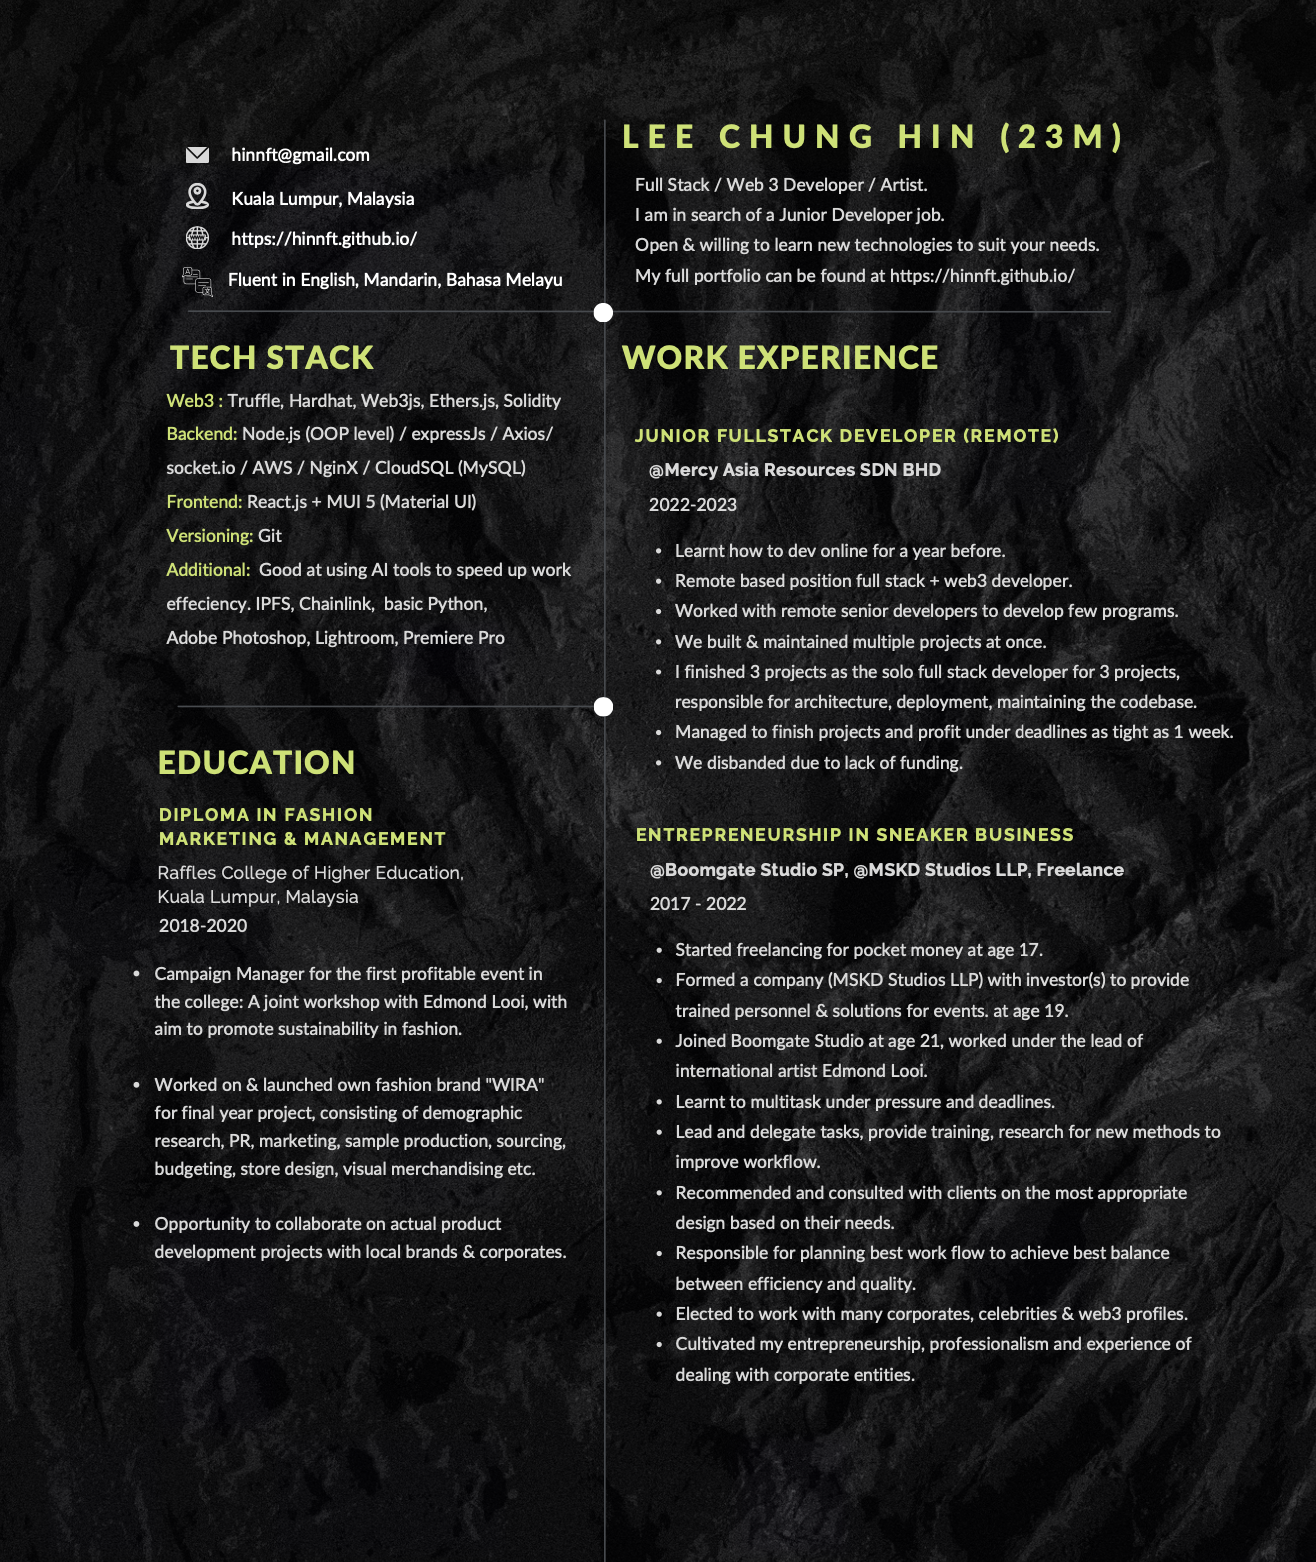
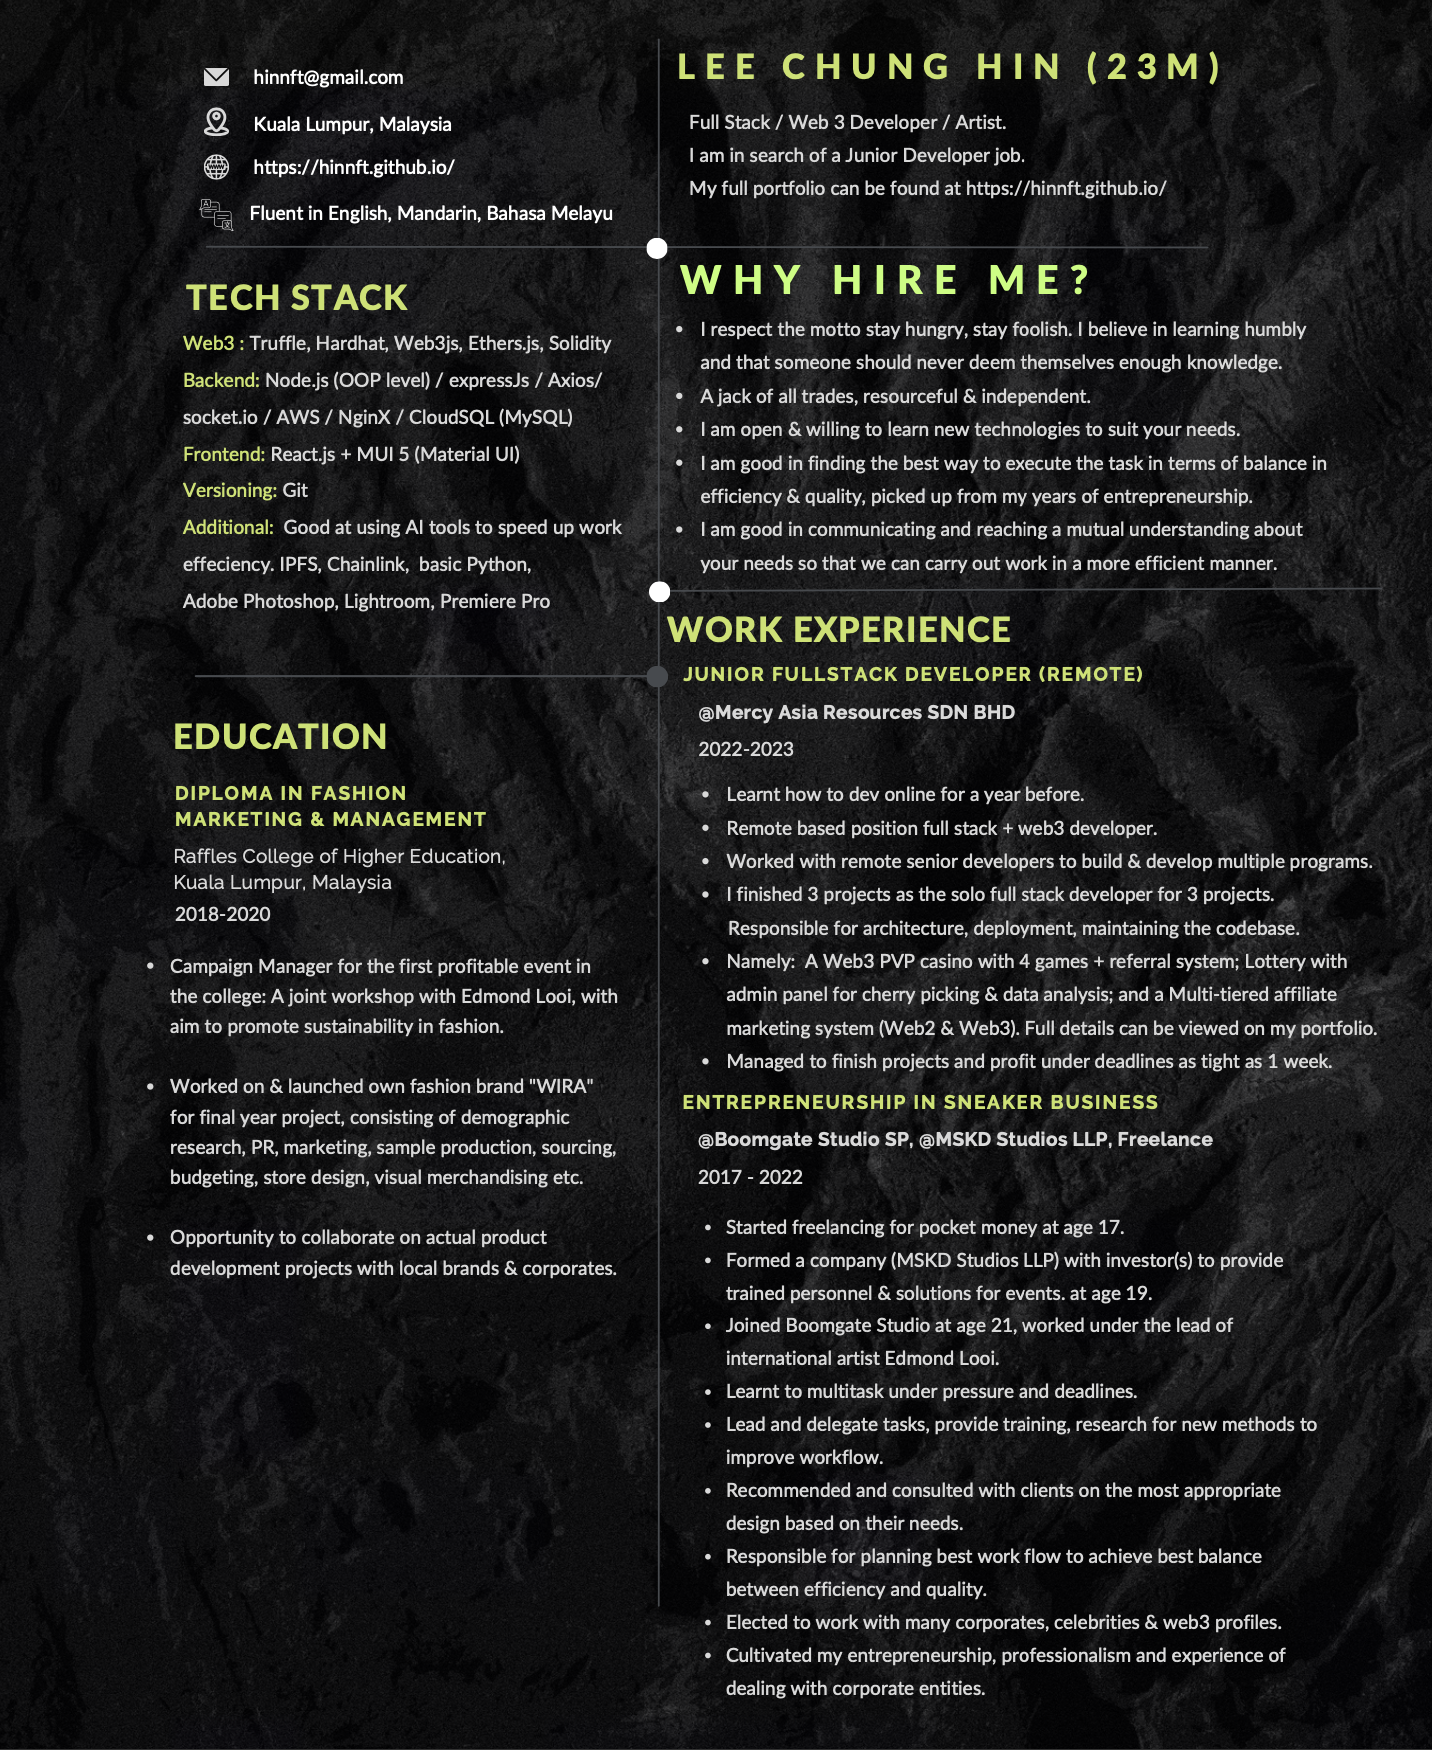
m

diff --git a/index.html b/index.html
@@ -103,38 +103,42 @@
           </p>
 
           <p>
-            Before my career as a fullstack developer, I had a career in art & crafts. I have juggled with entrepenuership, while at school at an age of 17-22, and even had the opportunity to start a company with an investor. I've also had opportunities to work with international artists, celebs and several well known Web3 names, including HAUS, Glider, Antoni Tudisco to name a few. During the NFT/Cryptocurrency boom in 2021, I learnt about decentralization & got fascinated by blockchain technology & the spirit of Web3.
+            Before my career as a fullstack developer, I had a career in art & crafts. I have juggled with entrepenuership at young age, and had the opportunity to start a company with an investor. I've also had opportunities to work with international artists, celebs and several well known Web3 names, including HAUS, Glider, Antoni Tudisco to name a few. During the NFT/Cryptocurrency boom in 2021, I learnt about decentralization & got fascinated by blockchain technology & the spirit of Web3.
           </p>
           <p>
-            After much research, I got intrigued to be involved, thus decided to pursue a new career as a fullstack & web 3 developer.
+            After much research, I was intrigued to pursue a new career as a fullstack & web 3 developer.
           </p>
           <p>
            Initially, I wanted to develop decentralized blockchain applications(dAPPs) to upgrade my own NFT collection on OpenSea. As I got more invested in programming, I did my own studies online during my free time after work for almost year. 
           </p>
           <p>
-            I learnt several programming languages including JavaScript, Solidity, HTML, CSS, Python, SQL. I also gained experience working with popular frameworks such as React, Node.js, and Express.js.
+            From there, I learnt several programming languages including JavaScript, Solidity, HTML, CSS, Python, SQL. I also gained experience working with popular frameworks such as React, Node.js, and Express.js.
+            I believe my self education has given me a good base in software development principles and practices, though I would like to continue building & learning as a team. 
           </p>
           <p>
-            I believe my self education has given me a good base in software development principles and practices, though I would like to continue building & exchanging knowledge with a team. 
+            In my previous remote job, I took up a lot of responsibility, developing several applications solo, due to being in a small team that handles multiple projects. I was able to contribute by building and launching several full projects in short timeframes. I learned a lot from the experience and developed skills such as working under pressure, project management, critical problem-solving, maintaining a deployed codebase and technical skills.
           </p>
           <p>
-            In my previous remote job, I had to take up a lot of responsibility for developing several applications, mostly working solo, due to being in a small team handling multiple projects. The team only consisted of 1 UI/UX designer, 2 Senior developers and me. 
+            There, I developed 3 solo projects. Namely: 1) A Web3 PVP casino with 4 games + referral system 2) A lottery with admin panel for cherry picking & data analysis 3) A Multi-tiered affiliate marketing system (Web2 & Web3). Full details of the projects can be viewed from the 'Dev work' tab. I was responsible for architecture, deployment, maintaining the codebase + pushing updates after deployment.
+           
           </p>
-          <p>
-            I was able to contribute by building and launching several full projects in short timeframes. Unfortunately, the company disbanded due to lack of investment, but I learned a lot from the experience and developed skills such as working under pressure, project management, critical problem-solving, maintaining a deployed codebase and technical skills.
-          </p>
-
 
           <p>
             As a fullstack developer, I enjoy working on both the frontend and backend of applications. I am passionate about creating responsive and user-friendly interfaces that enhance the user experience. I am currently learning to upgrade my frontend design skills with Three.js. I also enjoy working on the server-side of applications, building APIs and integrating different technologies to create robust and scalable applications.
           </p>
 
-
           <p>
             When I am not coding, I enjoy exploring new technologies that aid in my workflow, such as AI. I am always eager to learn and expand my knowledge and learn best practices, and I am committed to staying up-to-date with the latest developments in the field.
           </p>
+
+           <p>
+            I believe I can contribute to your team as a resourceful & independent person. At times I am a jack of all trades, picked up from my years of entrepreneurship. I am also open & willing to learn new technologies to suit your needs. As a problem solver, I am good in finding the best way to execute the task in terms of balance in efficiency & quality. Most importantly, I am good in communicating and reaching a mutual understanding about your needs so that we can carry out work in a more efficient manner. 
+          </p>
+           <p>
+          Lastly, I respect the motto stay hungry, stay foolish. I believe in learning humbly and that someone should never deem themselves enough knowledge. I may not be the best developer, but I am willing to learn to be.
+          </p>
           <p>
-           Thank you for taking the time to learn more about me, and I look forward to the opportunity to contribute to your team as a junior fullstack developer. I currently reside in Kuala Lumpur, Malaysia and am open to remote work.
+           Thank you for taking the time to learn more about me, and I look forward to the opportunity to contribute to your team as a junior Full Stack + Web3 developer. I currently reside in Kuala Lumpur, Malaysia and am open to remote work.
           </p>
 
 
@@ -169,7 +173,7 @@
         <div class="col-lg-3 col-md-4 mt-4 mt-md-0">
           <div class="icon-box">
         
-            <h3>MySQL (CloudSQL)</h3>
+            <h3>MySQL (Google Cloud SQL)</h3>
           </div>
         </div>
         <div class="col-lg-3 col-md-4 mt-4 mt-lg-0">
@@ -256,13 +260,13 @@
         <div class="col-lg-3 col-md-4 mt-4">
           <div class="icon-box">
 
-            <h3>Fashion & styling</h3>
+            <h3>Fashion & styling, sneaker collecting</h3>
           </div>
         </div>
         <div class="col-lg-3 col-md-4 mt-4">
           <div class="icon-box">
      
-            <h3>Sneaker Collecting</h3>
+            <h3>Gaming</h3>
           </div>
         </div>
         
@@ -549,7 +553,7 @@
       The difficulties I mainly faced are having to fix deprecated code as a beginner, as the tutorials are from 2017-2020. But this way, I got to simulate real world issues & obtain experience. </h6>
 
 
-   <h6> I learnt to code on my free time after work, which amounts to about 1-2 hrs daily. This whole section took me about 7 months to complete. </h6>
+   <h6>  I learnt to code on my free time after work, which amounts to about 1-2 hrs daily. This whole section took me about 7 months to complete. </h6>
 
 <div class="about-me container">
 
